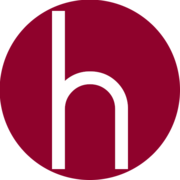
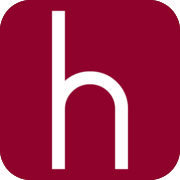
Added service worker update mechanism
Changed update popup

fix

temp color change

Changed update popup

fix

changed apple icon

diff --git a/src/components/root/SwUpdatePopup.vue b/src/components/root/SwUpdatePopup.vue
@@ -1,0 +1,92 @@
+<template>
+  <div class="sw-update-popup" :class="{ 'sw-update-popup--active': updateExists }">
+    <p class="sw-update-popup__text">Dostępna jest aktualizacja</p>
+    <app-button type="white" size="small" @click.stop="refreshApp"> Zaktualizuj </app-button>
+  </div>
+</template>
+
+<script lang="ts">
+import Vue from 'vue'
+export default Vue.extend({
+  data() {
+    return {
+      refreshing: false,
+      updateExists: false,
+      registration: null as null | ServiceWorkerRegistration,
+    }
+  },
+  // watch: {
+  //   updateExists(val: boolean) {
+  //     if (!val) return
+
+  //   },
+  // },
+  created() {
+    document.addEventListener('swUpdated', this.updateAvailable, { once: true })
+
+    navigator.serviceWorker.addEventListener('controllerchange', () => {
+      if (this.refreshing) return
+      this.refreshing = true
+      window.location.reload()
+    })
+  },
+  methods: {
+    updateAvailable(event: any) {
+      this.registration = event.detail
+      this.updateExists = true
+    },
+    refreshApp() {
+      this.updateExists = false
+      // Make sure we only send a 'skip waiting' message if the SW is waiting
+      if (!this.registration || !this.registration.waiting) return
+      // Send message to SW to skip the waiting and activate the new SW
+      this.registration.waiting.postMessage({ type: 'SKIP_WAITING' })
+    },
+  },
+})
+</script>
+
+<style lang="scss" scoped>
+.sw-update-popup {
+  position: fixed;
+  right: 20px;
+  bottom: -120px;
+  width: 100%;
+  max-width: calc(100vw - 40px);
+  padding: 8px;
+  background-color: $primary-color-500;
+  color: white;
+  display: flex;
+  flex-direction: column;
+  border-radius: 4px;
+  align-items: center;
+  justify-content: space-between;
+  visibility: hidden;
+  opacity: 0;
+  transition: 0.3s;
+
+  @media ($viewport-4) {
+    flex-direction: row;
+    max-width: 320px;
+  }
+
+  &--active {
+    bottom: 20px;
+    visibility: visible;
+    opacity: 1;
+  }
+
+  &__text {
+    font-weight: 600;
+    margin: 0;
+    margin-bottom: 8px;
+    text-align: center;
+
+    @media ($viewport-4) {
+      text-align: left;
+      margin-bottom: 0;
+      margin-right: 8px;
+    }
+  }
+}
+</style>

diff --git a/src/App.vue b/src/App.vue
@@ -12,6 +12,8 @@
     </main>
 
     <Loading :relative="false" :active="isLoading" />
+
+    <sw-update-popup />
   </div>
 </template>
 
@@ -23,6 +25,7 @@ import DesktopNavigation from './components/root/DesktopNavigation.vue'
 import MobileNavigation from './components/root/MobileNavigation.vue'
 import AppHeader from './components/root/Header.vue'
 import Loading from './components/layout/Loading.vue'
+import SwUpdatePopup from './components/root/SwUpdatePopup.vue'
 
 export default Vue.extend({
   metaInfo: {
@@ -36,6 +39,7 @@ export default Vue.extend({
     MobileNavigation,
     AppHeader,
     Loading,
+    SwUpdatePopup,
   },
   computed: {
     isLoading(): boolean {

diff --git a/src/registerServiceWorker.ts b/src/registerServiceWorker.ts
@@ -19,8 +19,9 @@ if (process.env.NODE_ENV === 'production') {
     updatefound() {
       console.log('New content is downloading.')
     },
-    updated() {
+    updated(registration) {
       console.log('New content is available; please refresh.')
+      document.dispatchEvent(new CustomEvent('swUpdated', { detail: registration }))
     },
     offline() {
       console.log('No internet connection found. App is running in offline mode.')
